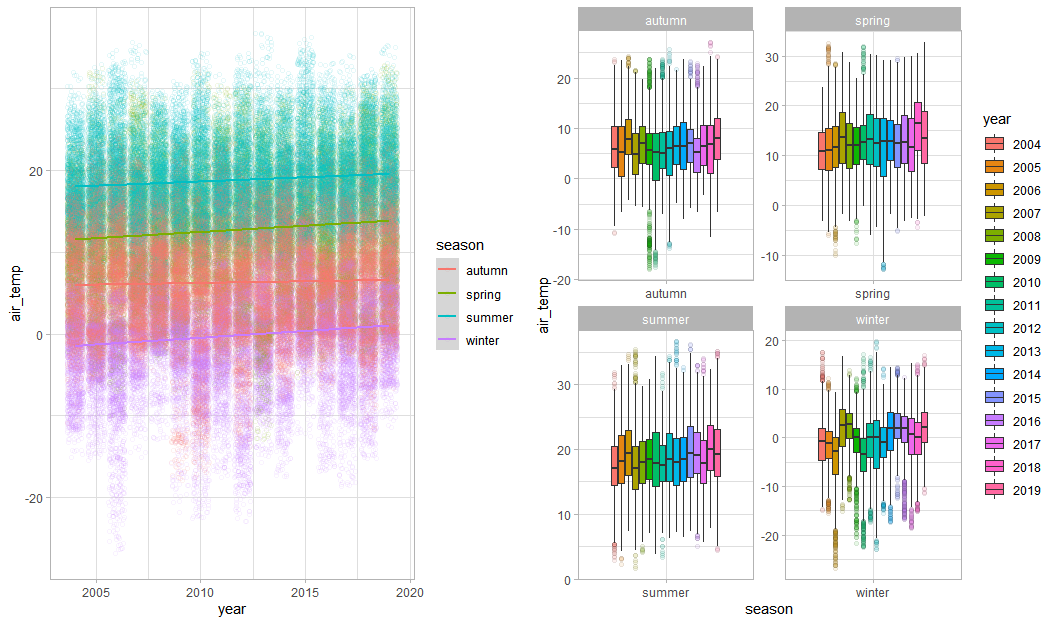
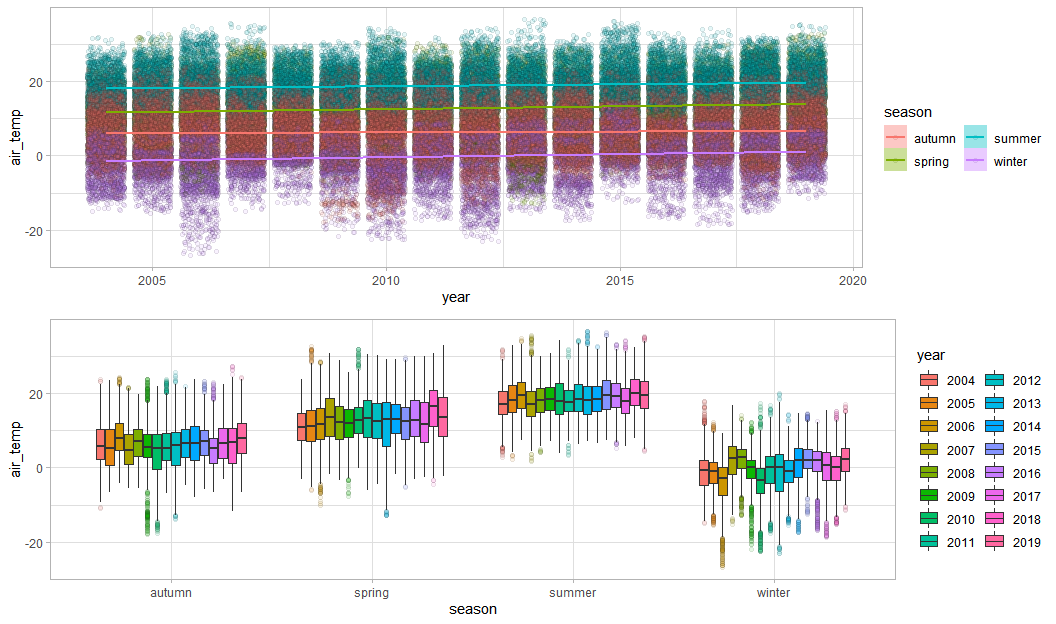
updated trend analysis plots

diff --git a/temp_waw_eda.md b/temp_waw_eda.md
@@ -41,4 +41,4 @@ It's difficult to see the trend on the charts above. Let's plot median values fo
 Compare trends (seasons)
 ------------------------
 
-The way to check which season temperature is increasing faster is to compare betas (slopes angle) of linear model. Here are the betas for each season: <img src="temp_waw_eda_files/figure-markdown_github/unnamed-chunk-11-1.png" style="display: block; margin: auto;" />
+The way to check which season temperature is increasing faster is to compare betas (slope angle) of linear model. Here are the betas for each season: <img src="temp_waw_eda_files/figure-markdown_github/unnamed-chunk-11-1.png" style="display: block; margin: auto;" /> Winter and spring are warming at the fastest pace. Around 0.16 and 0.15 degrees of Celcius per year. Autumn is the most stable but still warming.
